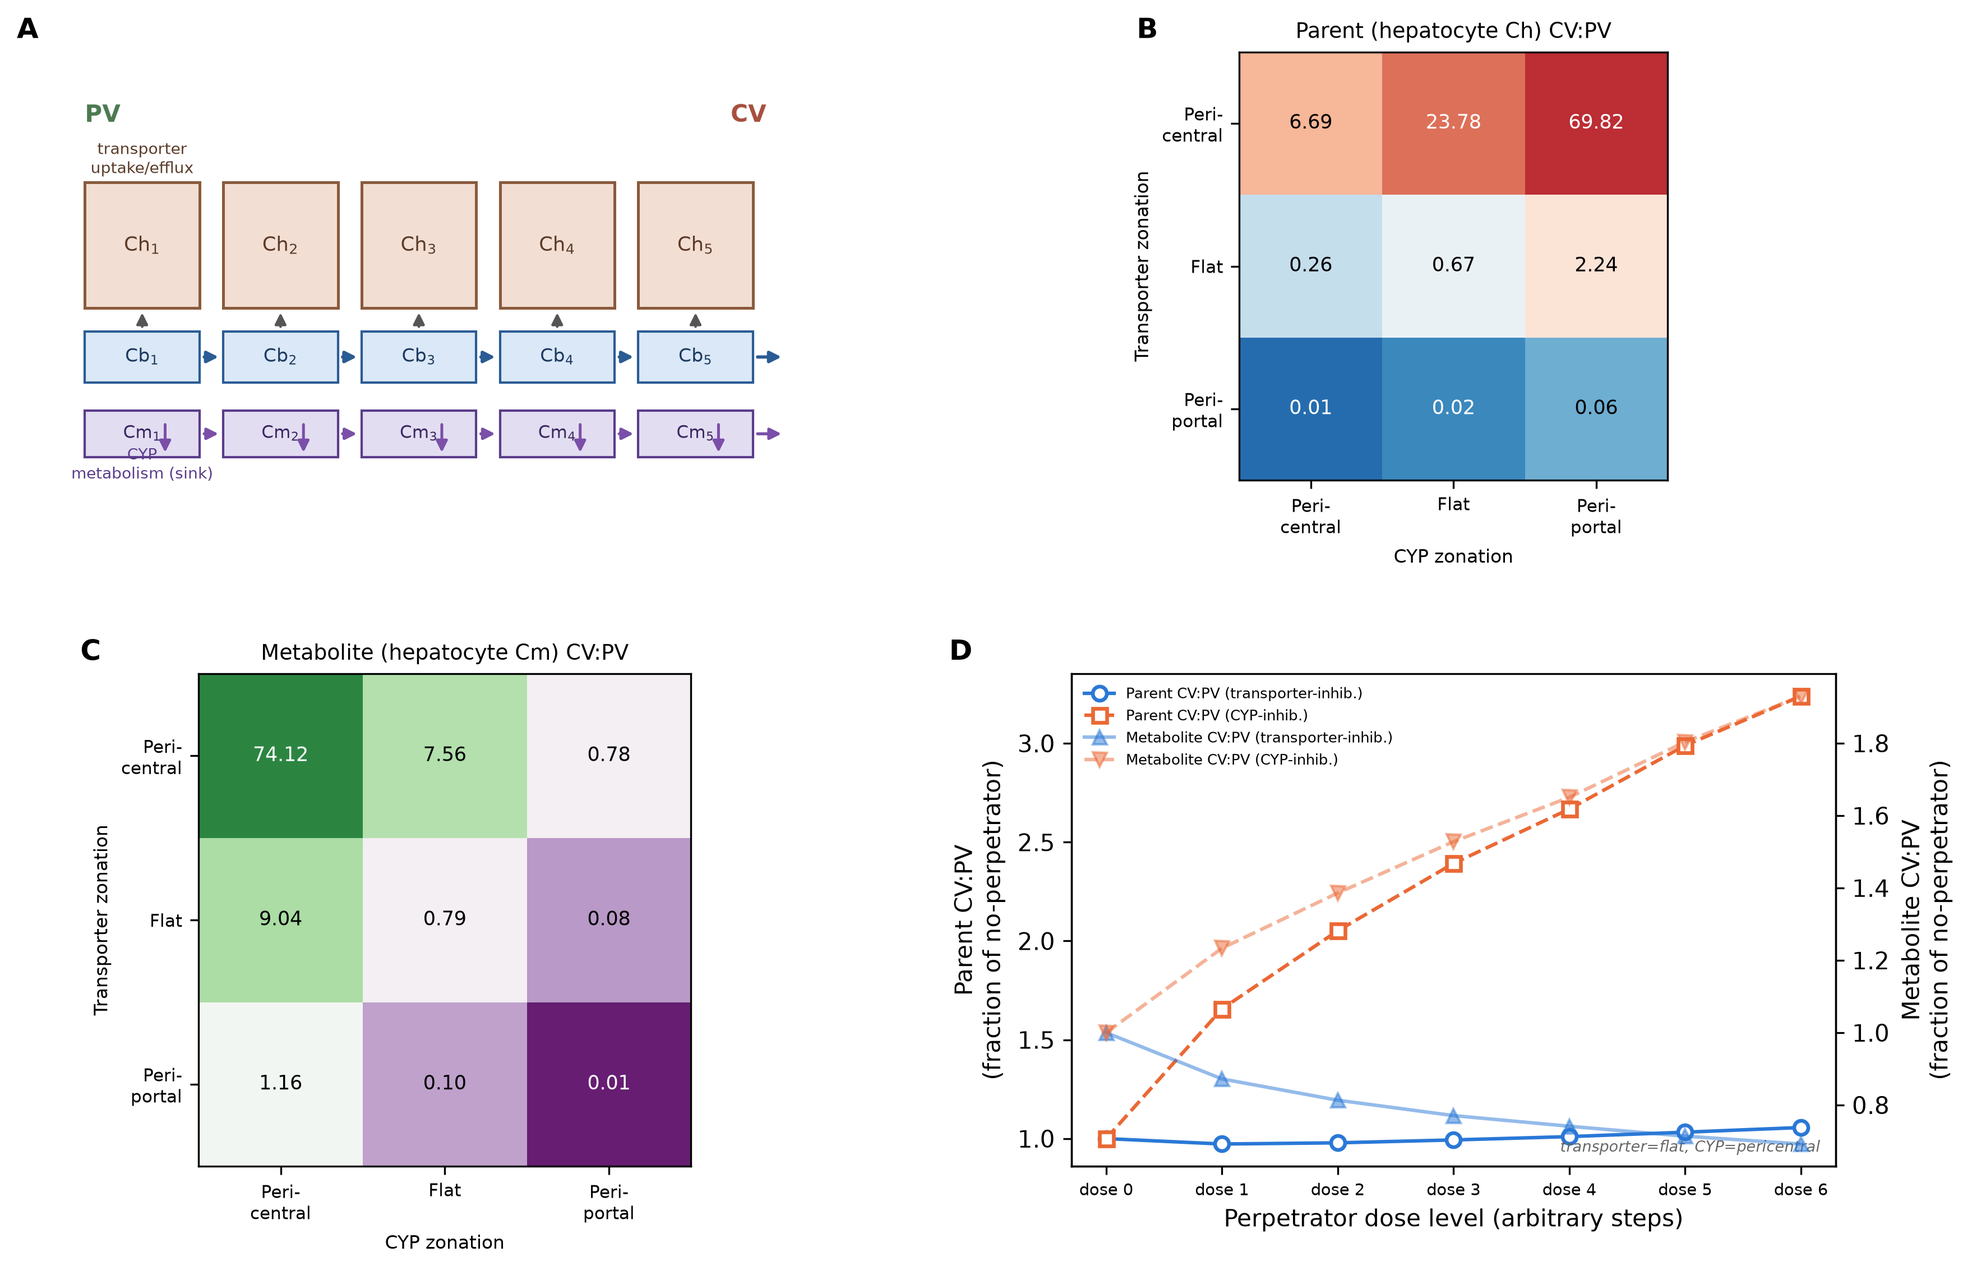
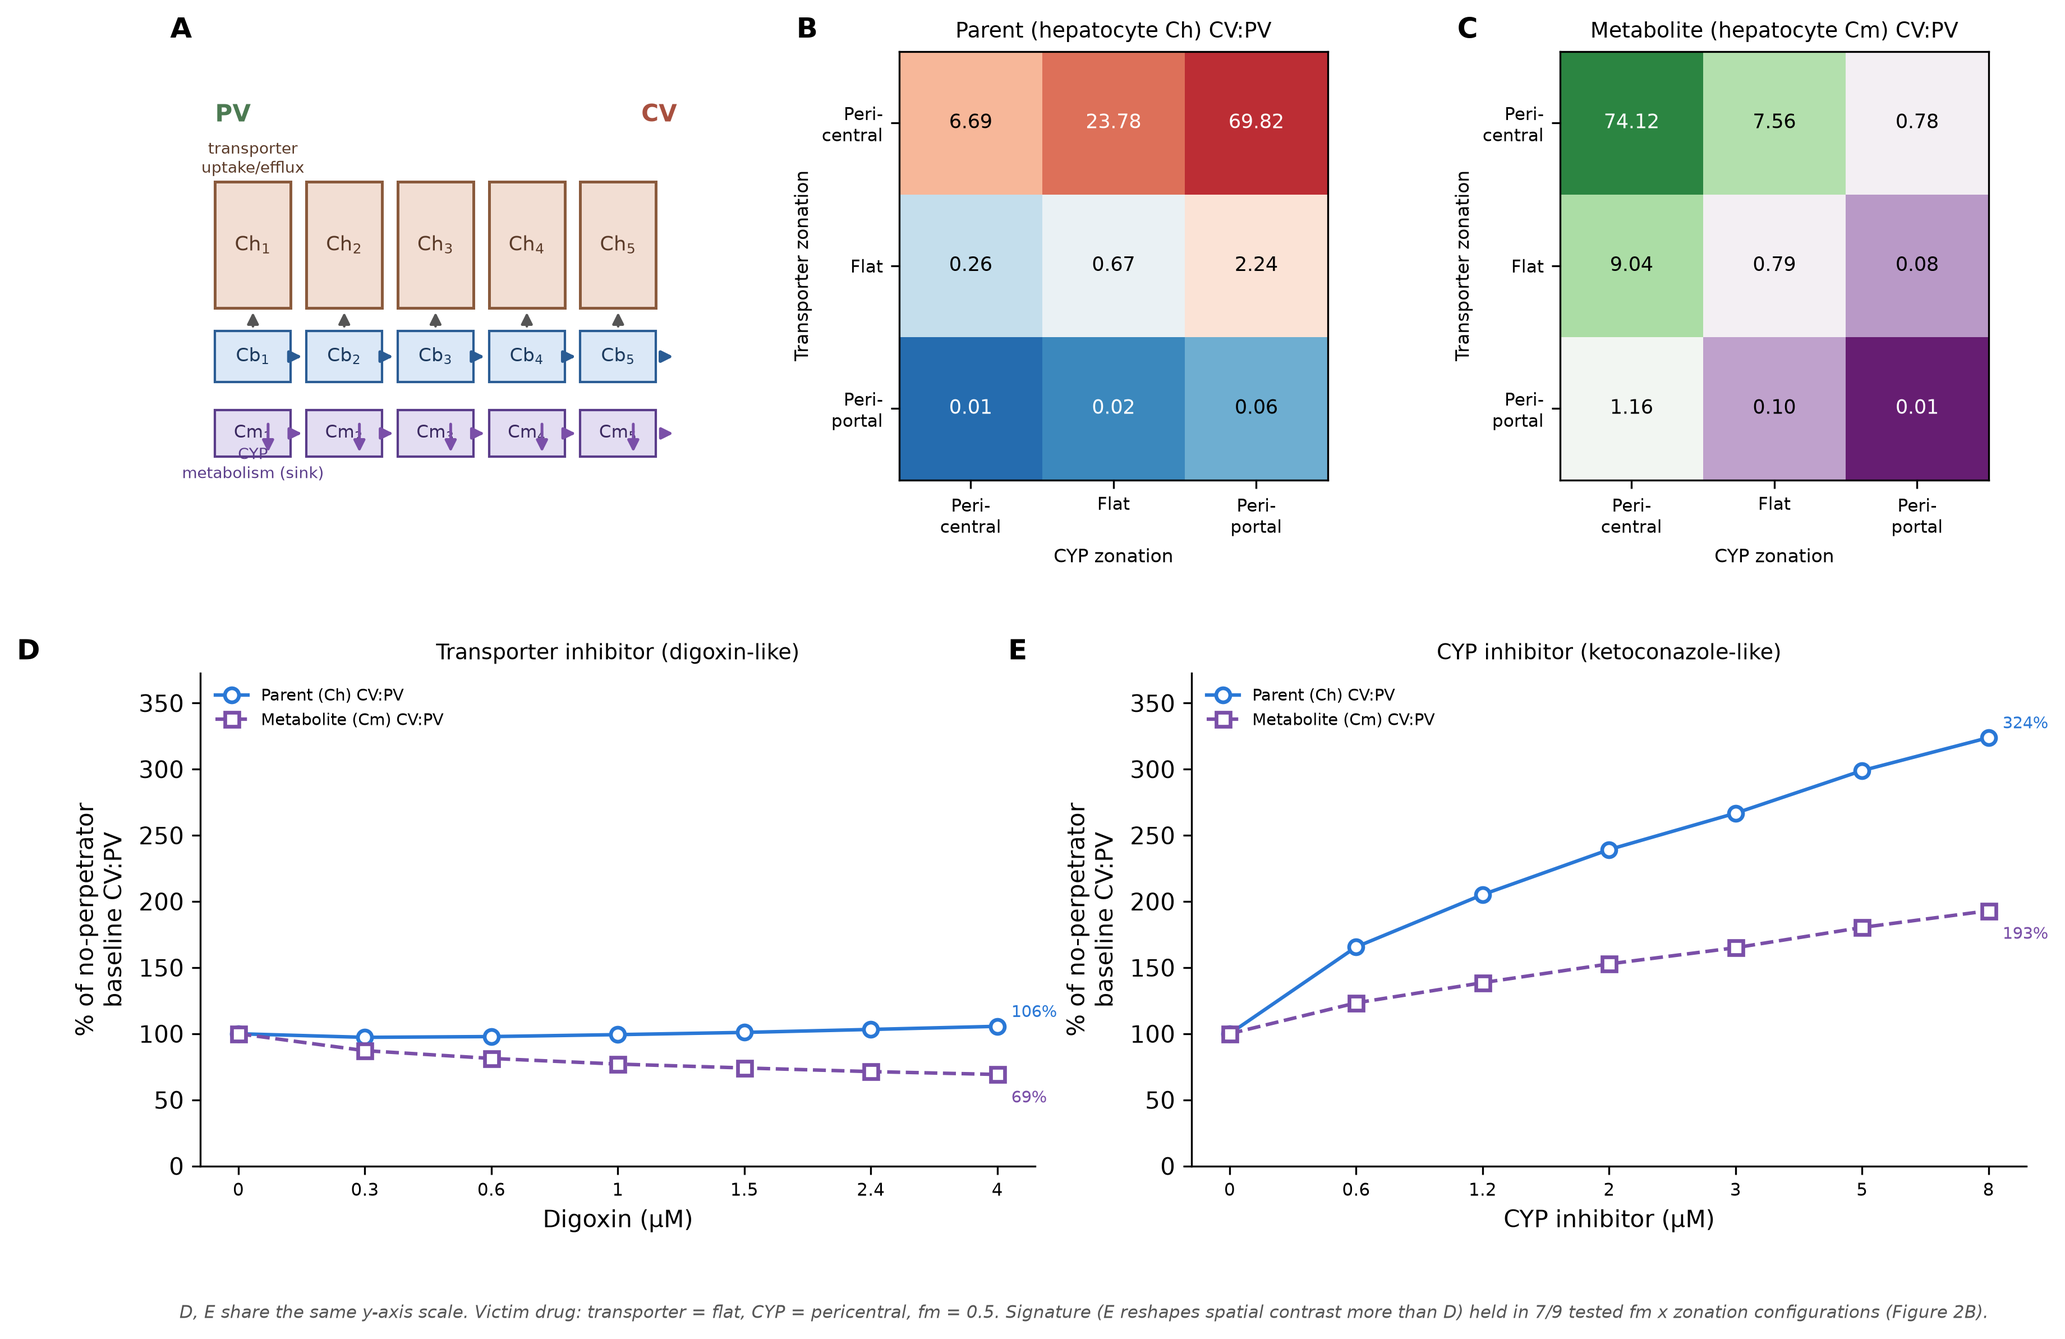
Add sensitivity/robustness suite, Figure 2, requirements.txt
Adds the six robustness checks (metabolite-export zonation, parameter
sweeps, DDI-signature robustness, spatial coarse-graining, fm/kef
decoupling, CV:PV boundary-width sensitivity) behind the manuscript's
Figure 2 and Robustness checks section, in response to peer review.
Figure 1 simplified (reading-key panel removed, DDI panels widened).

diff --git a/make_figure1.py b/make_figure1.py
@@ -7,12 +7,13 @@ from model import simulate, cv_pv_ratio, N, xs
 
 plt.rcParams.update({"font.size": 10, "font.family": "DejaVu Sans"})
 
-fig = plt.figure(figsize=(13.6, 8.6))
-gs = fig.add_gridspec(2, 2, height_ratios=[1, 1.15], wspace=0.32, hspace=0.42)
-axA = fig.add_subplot(gs[0, 0])
-axB = fig.add_subplot(gs[0, 1])
-axC = fig.add_subplot(gs[1, 0])
-axD = fig.add_subplot(gs[1, 1])
+fig = plt.figure(figsize=(14.0, 8.6))
+gs = fig.add_gridspec(2, 6, height_ratios=[1, 1.15], wspace=0.9, hspace=0.42)
+axA = fig.add_subplot(gs[0, 0:2])
+axB = fig.add_subplot(gs[0, 2:4])
+axC = fig.add_subplot(gs[0, 4:6])
+axD = fig.add_subplot(gs[1, 0:3])
+axE = fig.add_subplot(gs[1, 3:6])
 
 # ---------------- Panel A: schematic ----------------
 axA.set_xlim(0, 10); axA.set_ylim(-0.3, 4.3); axA.axis("off")
@@ -81,7 +82,7 @@ plot_grid(axB, grid_Ch, "Parent (hepatocyte Ch) CV:PV", "RdBu_r")
 axC.set_title("C", loc="left", fontweight="bold", x=-0.24)
 plot_grid(axC, grid_Cm, "Metabolite (hepatocyte Cm) CV:PV", "PRGn")
 
-# ---------------- Panel D: DDI discrimination, flat transporter + pericentral CYP ----------------
+# ---------------- Panels D/E: DDI discrimination, split into two single-axis panels ----------------
 dig_doses = [0, 0.3, 0.6, 1.0, 1.5, 2.4, 4.0]
 inh_doses = [0, 0.6, 1.2, 2.0, 3.0, 5.0, 8.0]
 
@@ -95,26 +96,39 @@ for d in inh_doses:
     r = simulate("flat", "pericentral", fm=0.5, cyp_inh_uM=d, t_end_min=15.0)
     ch_inh.append(cv_pv_ratio(r["Ch"])); cm_inh.append(cv_pv_ratio(r["Cm"]))
 
-axD.set_title("D", loc="left", fontweight="bold", x=-0.16)
-ax2 = axD.twinx()
-l1, = axD.plot(range(len(dig_doses)), [c/ch_dig[0] for c in ch_dig], "o-", color="#2a78d6",
-                label="Parent CV:PV (transporter-inhib.)", ms=6, mfc="white", mew=1.6)
-l2, = axD.plot(range(len(dig_doses)), [c/ch_inh[0] for c in ch_inh], "s--", color="#eb6834",
-                label="Parent CV:PV (CYP-inhib.)", ms=6, mfc="white", mew=1.6)
-l3, = ax2.plot(range(len(dig_doses)), [c/cm_dig[0] for c in cm_dig], "^-", color="#2a78d6",
-                alpha=0.5, label="Metabolite CV:PV (transporter-inhib.)", ms=6)
-l4, = ax2.plot(range(len(dig_doses)), [c/cm_inh[0] for c in cm_inh], "v--", color="#eb6834",
-                alpha=0.5, label="Metabolite CV:PV (CYP-inhib.)", ms=6)
-axD.set_xticks(range(len(dig_doses)))
-axD.set_xticklabels([f"dose {k}" for k in range(len(dig_doses))], fontsize=7)
-axD.set_xlabel("Perpetrator dose level (arbitrary steps)")
-axD.set_ylabel("Parent CV:PV\n(fraction of no-perpetrator)")
-ax2.set_ylabel("Metabolite CV:PV\n(fraction of no-perpetrator)")
-axD.spines[['top']].set_visible(False)
-lines = [l1, l2, l3, l4]
-axD.legend(lines, [l.get_label() for l in lines], fontsize=6.3, frameon=False, loc="upper left")
-axD.text(0.98, 0.03, "transporter=flat, CYP=pericentral", transform=axD.transAxes,
-          ha="right", fontsize=6.5, color="#666", style="italic")
+ch_dig_pct = [100*c/ch_dig[0] for c in ch_dig]
+cm_dig_pct = [100*c/cm_dig[0] for c in cm_dig]
+ch_inh_pct = [100*c/ch_inh[0] for c in ch_inh]
+cm_inh_pct = [100*c/cm_inh[0] for c in cm_inh]
+y_all = ch_dig_pct + cm_dig_pct + ch_inh_pct + cm_inh_pct
+ylim = (0, max(y_all)*1.15)
+
+def plot_ddi_panel(ax, doses, ch_pct, cm_pct, title, panel_letter, xlabel):
+    ax.plot(range(len(doses)), ch_pct, "o-", color="#2a78d6", label="Parent (Ch) CV:PV", ms=6, mfc="white", mew=1.6)
+    ax.plot(range(len(doses)), cm_pct, "s--", color="#7a4fa8", label="Metabolite (Cm) CV:PV", ms=6, mfc="white", mew=1.6)
+    ax.annotate(f"{ch_pct[-1]:.0f}%", (len(doses)-1, ch_pct[-1]), textcoords="offset points",
+                xytext=(6, 4), fontsize=7, color="#2a78d6")
+    ax.annotate(f"{cm_pct[-1]:.0f}%", (len(doses)-1, cm_pct[-1]), textcoords="offset points",
+                xytext=(6, -12), fontsize=7, color="#7a4fa8")
+    ax.set_xticks(range(len(doses)))
+    ax.set_xticklabels([f"{d:g}" for d in doses], fontsize=7.5)
+    ax.set_xlabel(xlabel)
+    ax.set_ylabel("% of no-perpetrator\nbaseline CV:PV")
+    ax.set_ylim(ylim)
+    ax.spines[['top', 'right']].set_visible(False)
+    ax.legend(fontsize=7, frameon=False, loc="upper left")
+    ax.set_title(title, fontsize=9)
+    ax.set_title(panel_letter, loc="left", fontweight="bold", x=-0.22)
+
+plot_ddi_panel(axD, dig_doses, ch_dig_pct, cm_dig_pct,
+                "Transporter inhibitor (digoxin-like)", "D", "Digoxin (µM)")
+plot_ddi_panel(axE, inh_doses, ch_inh_pct, cm_inh_pct,
+                "CYP inhibitor (ketoconazole-like)", "E", "CYP inhibitor (µM)")
+
+fig.text(0.5, 0.005,
+    "D, E share the same y-axis scale. Victim drug: transporter = flat, CYP = pericentral, fm = 0.5. "
+    "Signature (E reshapes spatial contrast more than D) held in 7/9 tested fm x zonation configurations (Figure 2B).",
+    ha="center", fontsize=7.5, color="#555", style="italic")
 
 fig.savefig(__file__.replace("make_figure1.py", "figure1.png"), dpi=300, bbox_inches="tight")
 print("saved")

diff --git a/make_figure2_sensitivity.py b/make_figure2_sensitivity.py
@@ -1,0 +1,79 @@
+import matplotlib
+matplotlib.use("Agg")
+import matplotlib.pyplot as plt
+import numpy as np
+from sensitivity_suite import simulate, cv_pv, coarse_cv_pv
+
+plt.rcParams.update({"font.size": 10, "font.family": "DejaVu Sans"})
+fig, axes = plt.subplots(1, 3, figsize=(14.5, 4.3))
+axA, axB, axC = axes
+
+# ---------------- Panel A: metabolite export zonation sensitivity ----------------
+cy_kinds = ["pericentral", "flat", "periportal"]
+export_kinds = [None, "pericentral", "periportal"]
+export_labels = ["uniform\n(as modeled)", "export also\npericentral", "export also\nperiportal"]
+colors = ["#2a78d6", "#eb6834", "#1baf7a"]
+
+x = np.arange(len(cy_kinds))
+width = 0.26
+for k, (ek, lab, col) in enumerate(zip(export_kinds, export_labels, colors)):
+    vals = [cv_pv(simulate("flat", cy, fm=0.5, kefm_kind=ek)["Cm"]) for cy in cy_kinds]
+    axA.bar(x + (k-1)*width, np.log10(vals), width, label=lab, color=col, alpha=0.85)
+axA.set_xticks(x); axA.set_xticklabels(["Peri-\ncentral", "Flat", "Peri-\nportal"])
+axA.set_xlabel("CYP zonation (transporter fixed = flat)")
+axA.set_ylabel("log$_{10}$(Metabolite Cm CV:PV)")
+axA.axhline(0, color="#333", lw=0.8)
+axA.legend(fontsize=6.8, frameon=False, loc="upper right")
+axA.spines[['top','right']].set_visible(False)
+axA.set_title("A", loc="left", fontweight="bold", x=-0.16)
+axA.text(0.02, 0.03, "rank order preserved;\nmagnitude shifts up to ~180-fold",
+         transform=axA.transAxes, fontsize=6.8, color="#666", style="italic")
+
+# ---------------- Panel B: DDI signature robustness across fm/configs ----------------
+configs = [("flat","pericentral"), ("flat","flat"), ("pericentral","pericentral")]
+fms = [0.2, 0.5, 0.8]
+grid = np.zeros((3,3))
+for i,(tr,cy) in enumerate(configs):
+    for j,fm in enumerate(fms):
+        base = simulate(tr, cy, fm=fm)
+        base_cvpv = cv_pv(base["Ch"])
+        rt = simulate(tr, cy, fm=fm, digoxin_uM=2.4)
+        rc = simulate(tr, cy, fm=fm, cyp_inh_uM=4.0)
+        dt_shape = abs(100*cv_pv(rt["Ch"])/base_cvpv - 100)
+        dc_shape = abs(100*cv_pv(rc["Ch"])/base_cvpv - 100)
+        grid[i,j] = 1.0 if dc_shape > dt_shape else 0.0
+
+im = axB.imshow(grid, cmap="RdYlGn", vmin=0, vmax=1, aspect="equal")
+for i in range(3):
+    for j in range(3):
+        axB.text(j, i, "holds" if grid[i,j]==1 else "fails", ha="center", va="center", fontsize=8)
+axB.set_xticks(range(3)); axB.set_xticklabels([f"fm={f}" for f in fms])
+axB.set_yticks(range(3)); axB.set_yticklabels([f"{tr}\n{cy}" for tr,cy in configs], fontsize=7.5)
+axB.set_title("B", loc="left", fontweight="bold", x=-0.30)
+axB.set_xlabel("metabolic fraction")
+axB.text(0.5, -0.28, "DDI-locus signature (CYP-inhib. reshapes\nspatial contrast more than transporter-inhib.):\nholds in 7/9 tested configurations",
+         transform=axB.transAxes, fontsize=6.8, color="#666", ha="center", style="italic")
+
+# ---------------- Panel C: spatial-averaging / detectability ----------------
+data = []
+for tr in ["pericentral","flat","periportal"]:
+    for cy in ["pericentral","flat","periportal"]:
+        r = simulate(tr, cy, fm=0.5)
+        data.append((cv_pv(r["Ch"]), coarse_cv_pv(r["Ch"],3), cv_pv(r["Cm"]), coarse_cv_pv(r["Cm"],3)))
+data = np.array(data)
+axC.scatter(np.log10(data[:,0]), np.log10(data[:,1]), color="#2a78d6", label="Parent (Ch)", s=45, alpha=0.85)
+axC.scatter(np.log10(data[:,2]), np.log10(data[:,3]), color="#7a4fa8", label="Metabolite (Cm)", s=45, marker="s", alpha=0.85)
+lims = [min(np.log10(data[:,[0,2]]).min(), np.log10(data[:,[1,3]]).min())-0.3,
+        max(np.log10(data[:,[0,2]]).max(), np.log10(data[:,[1,3]]).max())+0.3]
+axC.plot(lims, lims, color="#999", lw=1, ls="--")
+axC.set_xlim(lims); axC.set_ylim(lims)
+axC.set_xlabel("log$_{10}$(CV:PV), 24-compartment")
+axC.set_ylabel("log$_{10}$(CV:PV), 3-zone readout")
+axC.legend(fontsize=7.5, frameon=False, loc="upper left")
+axC.spines[['top','right']].set_visible(False)
+axC.set_title("C", loc="left", fontweight="bold", x=-0.20)
+axC.set_aspect("equal")
+
+fig.suptitle("Figure S1. Robustness checks requested in review", fontsize=11, y=1.03)
+fig.savefig("figure2_sensitivity.png", dpi=300, bbox_inches="tight")
+print("saved")

diff --git a/sensitivity_suite.py b/sensitivity_suite.py
@@ -1,0 +1,106 @@
+"""
+Robustness/sensitivity suite for the transporter-CYP zonation model, built
+in response to peer review of Transporter_CYP_Zonation_BDD_DRAFT.docx.
+
+Addresses:
+  (1) whether metabolite-tracks-CYP is an emergent or structural result
+      (test with a zonated, not uniform, metabolite export kefm(x))
+  (2) global sensitivity across fm, Km_cyp, kef, kefm, F, Ki_up, Ki_cyp, N
+  (3) whether the transporter-inhibitor-vs-CYP-inhibitor DDI signature is
+      robust across fm and zonation configurations, not just one case
+  (4) whether CV:PV contrasts survive coarse spatial averaging (3-zone
+      readout instead of 24-compartment)
+
+Numpy-vectorized (compartments), explicit Euler in time (matches the
+manuscript's validated numerics; dt/t_end taken from model2.py's
+convergence-checked defaults, re-checked below for the new kefm(x) case).
+"""
+import numpy as np
+
+N = 24
+xs = np.array([(i + 0.5) / N for i in range(N)])
+
+KM = 8.2
+KI = 0.3
+F = 8.0
+VB = 0.15
+VH = 0.6
+KEF = 0.8
+VMAX0 = 10.0
+KM_CYP = 5.0
+KI_CYP = 0.5
+KEFM0 = 0.8
+
+DT = 0.0025
+T_END = 15.0
+
+
+def shape(kind):
+    if kind == "pericentral":
+        raw = 0.04 + 0.96 * xs**3
+    elif kind == "flat":
+        raw = np.ones(N)
+    elif kind == "periportal":
+        raw = 0.04 + 0.96 * (1 - xs)**3
+    else:
+        raise ValueError(kind)
+    return raw / raw.mean()
+
+
+def cypmax_profile(kind, fm=0.5, kef=KEF, km_cyp=KM_CYP):
+    kmet_avg = fm * kef / (1 - fm)
+    return shape(kind) * kmet_avg * km_cyp
+
+
+def simulate(transporter_kind, cyp_kind, fm=0.5, digoxin_uM=0.0, cyp_inh_uM=0.0,
+             dose_uM=10.0, t_end=T_END, dt=DT, vmax0=VMAX0, km_cyp=KM_CYP,
+             kef=KEF, kefm=KEFM0, ki_up=KI, ki_cyp=KI_CYP, F_=F,
+             kefm_kind=None):
+    """kefm: scalar (uniform export, default) OR if kefm_kind is given
+    (one of pericentral/flat/periportal), export itself is zonated with
+    that shape, normalized to the same mean as the scalar kefm."""
+    Vmax = shape(transporter_kind) * vmax0
+    CYPmax = cypmax_profile(cyp_kind, fm=fm, kef=kef, km_cyp=km_cyp)
+    Km_app = KM * (1 + digoxin_uM / ki_up) if digoxin_uM > 0 else KM
+    Km_cyp_app = km_cyp * (1 + cyp_inh_uM / ki_cyp) if cyp_inh_uM > 0 else km_cyp
+    kefm_arr = shape(kefm_kind) * kefm if kefm_kind else np.full(N, kefm)
+
+    Cb = np.zeros(N); Ch = np.zeros(N); Cmb = np.zeros(N); Cm = np.zeros(N)
+    nsteps = int(t_end / dt)
+    for _ in range(nsteps):
+        Cb_in = np.concatenate(([dose_uM], Cb[:-1]))
+        Cmb_in = np.concatenate(([0.0], Cmb[:-1]))
+        Jin = Vmax * Cb / (Km_app + Cb)
+        Jout = kef * Ch
+        Jmet = CYPmax * Ch / (Km_cyp_app + Ch)
+        Jmetb = kefm_arr * Cm
+        Cb = np.maximum(0, Cb + dt*(F_/VB*(Cb_in-Cb) - (Jin-Jout)/VB))
+        Ch = np.maximum(0, Ch + dt*((Jin-Jout-Jmet)/VH))
+        Cmb = np.maximum(0, Cmb + dt*(F_/VB*(Cmb_in-Cmb) + Jmetb/VB))
+        Cm = np.maximum(0, Cm + dt*((Jmet-Jmetb)/VH))
+    return {"Cb": Cb, "Ch": Ch, "Cmb": Cmb, "Cm": Cm}
+
+
+def cv_pv(arr, n_edge=3):
+    return arr[-n_edge:].mean() / max(arr[:n_edge].mean(), 1e-9)
+
+
+def coarse_cv_pv(arr, n_zones=3):
+    """Coarse-grain into n_zones equal-width spatial bins (e.g. 3:
+    periportal/mid/pericentral) and report the resulting zone-average
+    CV:PV, mimicking realistic experimental spatial resolution."""
+    bins = np.array_split(arr, n_zones)
+    means = [b.mean() for b in bins]
+    return means[-1] / max(means[0], 1e-9)
+
+
+if __name__ == "__main__":
+    print("############ TEST 1: metabolite export zonation (structural vs emergent) ############")
+    print(f"{'transporter':>11} {'CYP':>11} {'kefm shape':>11}   Ch CV:PV   Cm CV:PV")
+    for tr in ["pericentral", "flat", "periportal"]:
+        for cy in ["pericentral", "flat", "periportal"]:
+            for kefm_kind in [None, "pericentral", "periportal"]:
+                r = simulate(tr, cy, fm=0.5, kefm_kind=kefm_kind)
+                label = kefm_kind or "uniform"
+                print(f"{tr:>11} {cy:>11} {label:>11}   {cv_pv(r['Ch']):8.3f}   {cv_pv(r['Cm']):8.3f}")
+        print()

diff --git a/README.md b/README.md
@@ -41,9 +41,24 @@ enzyme, without invasive regional sampling?
   `python3 model.py` to print the baseline transporter×CYP zonation grid.
 - **`make_figure1.py`** — generates the manuscript's Figure 1 (schematic,
   parent/metabolite CV:PV grids across all nine zonation combinations, and
-  the transporter-inhibitor-vs-CYP-inhibitor DDI discrimination panel).
+  the transporter-inhibitor-vs-CYP-inhibitor DDI discrimination panels).
   Requires `numpy` and `matplotlib`. Run with `python3 make_figure1.py`;
   output is `figure1.png` (included in this repo).
+- **`sensitivity_suite.py`** — the six robustness/sensitivity checks
+  reported in the manuscript's Figure 2 and "Robustness checks" section:
+  (1) metabolite export zonated instead of uniform, (2) rank-order
+  robustness across fm/Km,cyp/kef/flow sweeps, (3) DDI-signature robustness
+  across fm × zonation configurations, (4) coarse-graining to a 3-zone
+  experimental readout, (5) decoupling CYP capacity from kef (bypassing the
+  fm parameterization), (6) CV:PV boundary-width (n_edge) sensitivity. Run
+  directly with `python3 sensitivity_suite.py`. Requires `numpy`.
+- **`make_figure2_sensitivity.py`** — generates the manuscript's Figure 2
+  from `sensitivity_suite.py`. Requires `numpy` and `matplotlib`. Run with
+  `python3 make_figure2_sensitivity.py`; output is `figure2_sensitivity.png`
+  (included in this repo).
+- **`requirements.txt`** — `numpy`/`matplotlib` versions used to generate
+  the manuscript's figures (only needed for the sensitivity suite and
+  figure scripts; `model.py` itself has no dependencies).
 
 ## Headline findings
 
@@ -60,11 +75,30 @@ enzyme, without invasive regional sampling?
   portal inflow — unlike the transporter-only companion model, whose true
   equilibrium is exactly flat for every hypothesis, because CYP metabolism
   here is a real, irreversible sink.
-- **Transporter- and CYP-mediated DDIs leave distinguishable signatures**:
-  a transporter inhibitor collapses total exposure while barely reshaping
-  parent spatial contrast; a CYP inhibitor raises parent exposure and
-  substantially reshapes its spatial contrast — offering a non-invasive way
-  to localize a DDI's mechanistic locus.
+- **Transporter- and CYP-mediated DDIs leave distinguishable signatures in
+  most (7/9), but not all, tested configurations**: a transporter inhibitor
+  collapses total exposure while barely reshaping parent spatial contrast;
+  a CYP inhibitor raises parent exposure and substantially reshapes its
+  spatial contrast. The two failure cases (fm = 0.8 flat/flat, fm = 0.2
+  pericentral/pericentral) have a mechanistic explanation in the manuscript
+  (Robustness checks) — both are near-misses, not reversals.
+
+## What's robust, and what isn't
+
+Six sensitivity/robustness checks (`sensitivity_suite.py`, Figure 2)
+distinguish which claims above are generic model behavior versus contingent
+on the specific illustrative parameter set:
+
+- **Robust (rank order/direction):** parent-tracks-transporter and
+  metabolite-tracks-CYP hold across a >10-fold sweep of fm, Km,cyp, kef, and
+  flow; survive decoupling CYP capacity from kef entirely; survive
+  coarse-graining to a 3-zone experimental readout; survive redefining the
+  CV:PV boundary width (n_edge = 1/3/5).
+- **Not robust (absolute magnitude):** metabolite CV:PV shifts by up to
+  ~363-fold depending on whether metabolite export is itself zonated — a
+  process this minimal model holds uniform by construction. Absolute
+  metabolite gradients should not be over-interpreted quantitatively even
+  where their direction is reliable.
 
 ## Status
 
@@ -72,8 +106,12 @@ This is a hypothesis-generating model: transporter/CYP capacities, the three
 zonation shape families, and the illustrative `fm` (fraction metabolized)
 values are chosen to be physiologically plausible, not fitted to a matched
 kinetic dataset for a specific drug — see the manuscript's Limitations
-section. A follow-up model, fitting real rat atorvastatin/cyclosporine
-kinetics, is in scoping.
+section. All numerical results are dt-convergence-checked (explicit Euler,
+dt = 0.0025 min, verified against a 16-fold finer step at baseline and at
+every tested sensitivity-sweep extreme). A follow-up model, fitting real rat
+atorvastatin/cyclosporine kinetics, is in scoping — and was found to require
+a stiff ODE solver, since real transporter Vmax is far larger relative to
+flow than the illustrative values used here.
 
 ## License
 
